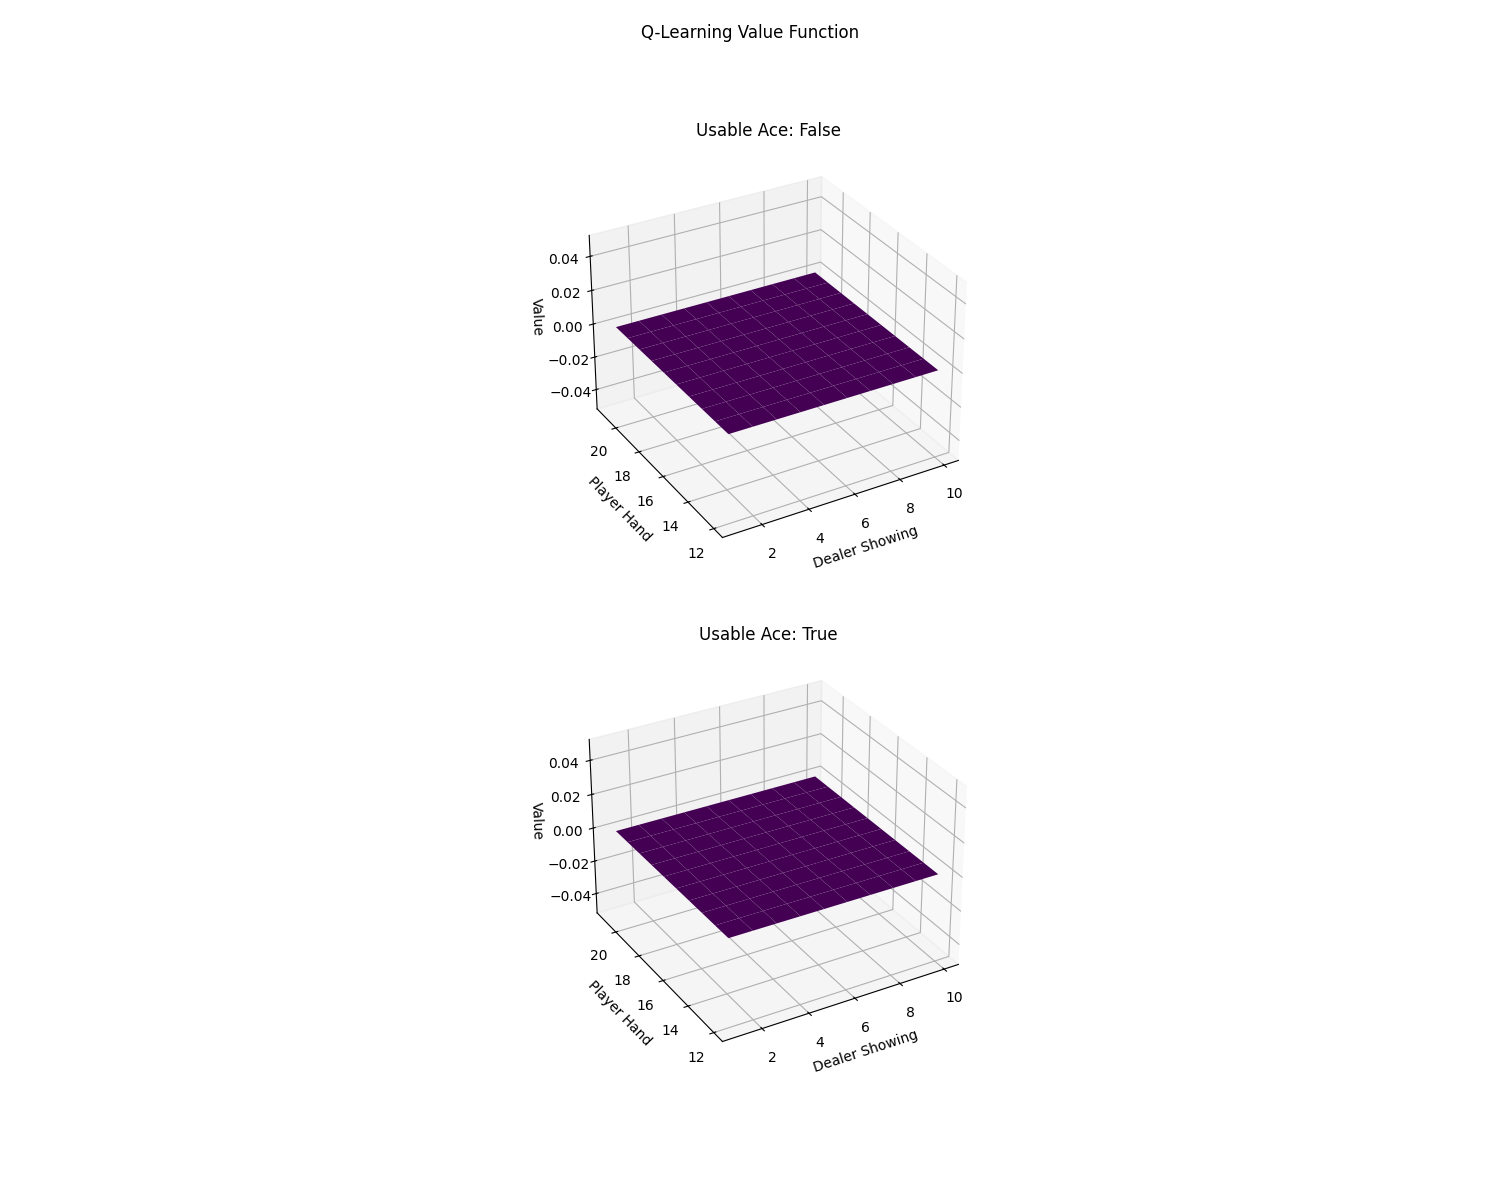
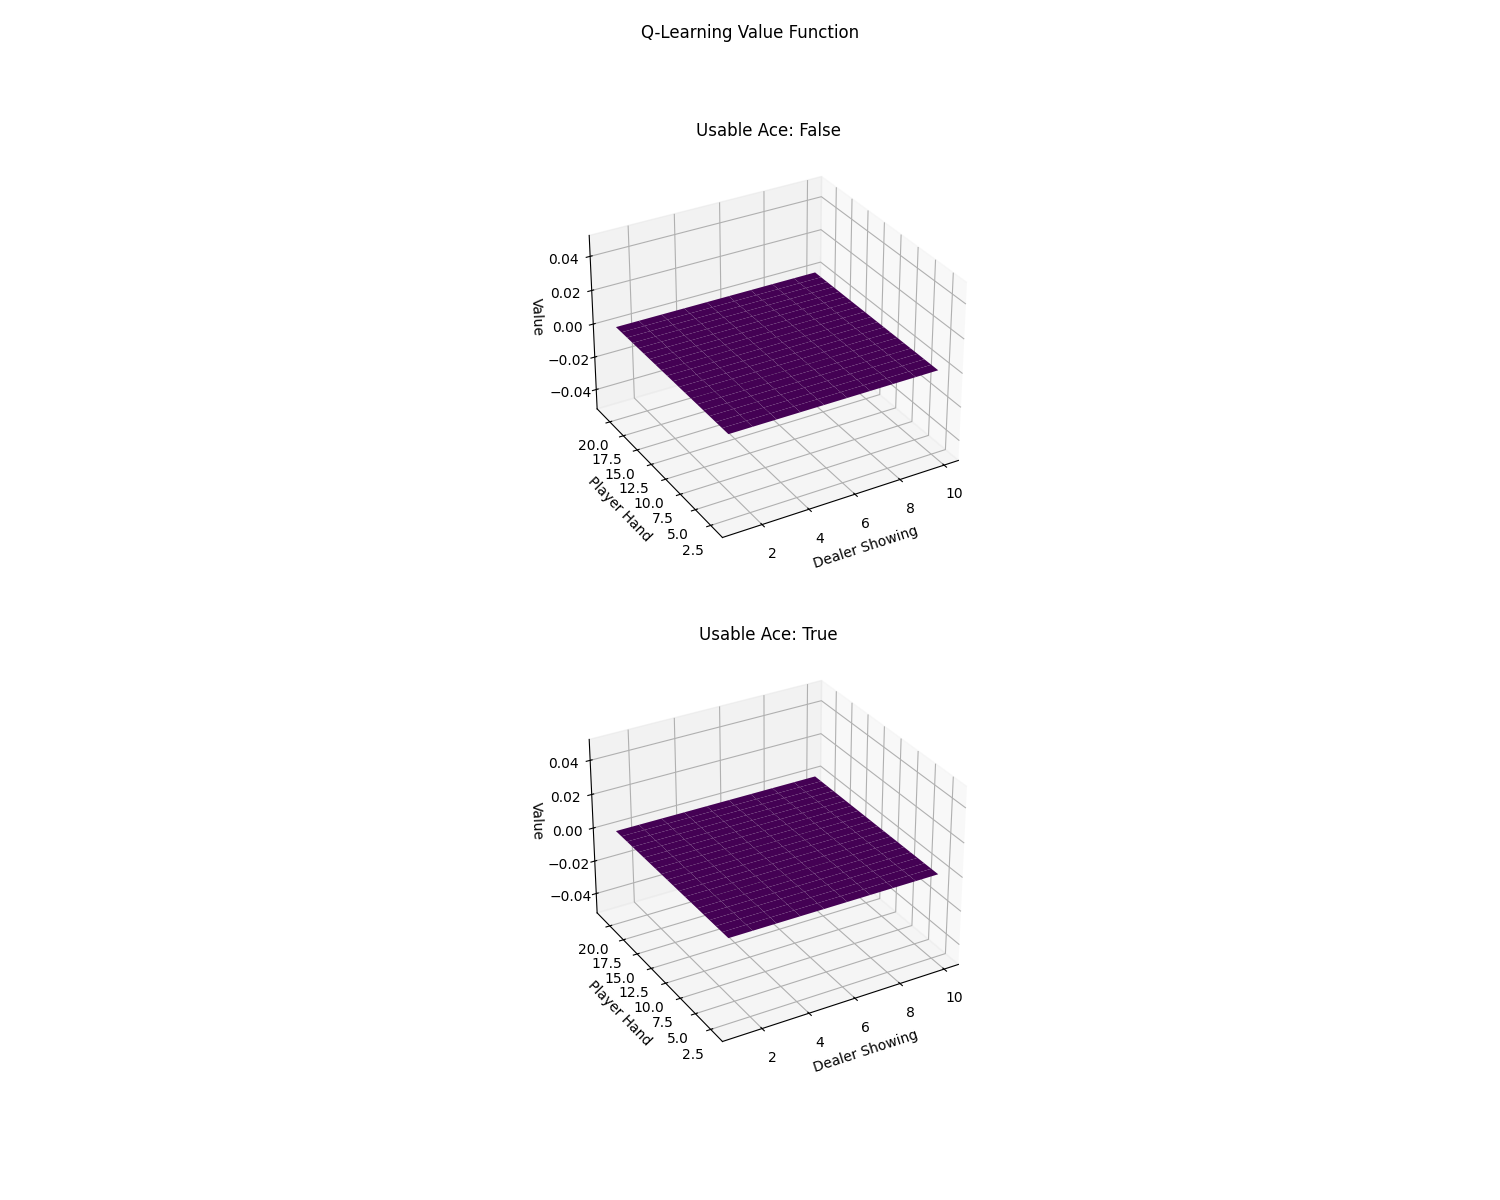
update

Changed region(s): [[0.3987, 0.5858, 0.644, 0.8633], [0.3987, 0.1542, 0.644, 0.4625]]

diff --git a/draw.py b/draw.py
@@ -1,16 +1,14 @@
 import matplotlib.pyplot as plt
 import numpy as np
 import torch
-from mpl_toolkits.mplot3d import Axes3D
-
 import matplotlib.pyplot as plt
 import numpy as np
-
+from Methods.utils import encode_state
 
 def plot_value_function_from_dict(value_dict, title="Value Function"):
     # 玩家可能的点数范围是12到21，庄家展示的牌可能是从1到10
-    player_range = np.arange(12, 22)
-    dealer_range = np.arange(1, 11)
+    player_range = np.arange(2, 22)
+    banker_range = np.arange(1, 11)
     usable_ace = [False, True]
 
     fig, axes = plt.subplots(nrows=2, figsize=(15, 12), subplot_kw={"projection": "3d"})
@@ -18,10 +16,18 @@ def plot_value_function_from_dict(value_dict, title="Value Function"):
 
     # 创建3D图的两个子图，对应有无可用Ace
     for idx, ace in enumerate(usable_ace):
-        x, y = np.meshgrid(dealer_range, player_range)
+        x, y = np.meshgrid(banker_range, player_range)
         z = np.array(
             [
-                [value_dict.get((player, dealer, ace), 0) for dealer in dealer_range]
+                [
+                    value_dict.get(
+                        frozenset(
+                            {"player": player, "banker": banker, "ace": ace}.items()
+                        ),
+                        0,
+                    )
+                    for banker in banker_range
+                ]
                 for player in player_range
             ]
         )
@@ -42,7 +48,7 @@ def plot_value_function_from_dict(value_dict, title="Value Function"):
 
 def plot_value_function_from_dqn(model, env, title="DQN Value Function"):
     player_range = np.arange(2, 22)  # 玩家点数从2到21
-    dealer_range = np.arange(1, 11)  # 庄家展示的牌从1到10
+    banker_range = np.arange(1, 11)  # 庄家展示的牌从1到10
     usable_ace = [False, True]  # 是否有可用的Ace
 
     # 创建3D图的两个子图，对应有无可用Ace
@@ -52,21 +58,21 @@ def plot_value_function_from_dqn(model, env, title="DQN Value Function"):
     for idx, ace in enumerate(usable_ace):  # 使用enumerate获取索引和是否有可用Ace
         state_values = {}
         for player in player_range:
-            for dealer in dealer_range:
-                state = (player, dealer, ace)
+            for banker in banker_range:
+                state = {"player": player, "banker": banker, "ace": ace}
                 state_tensor = torch.tensor(
-                    [env.encode_state(state)], dtype=torch.float32
+                    [encode_state(state)], dtype=torch.float32
                 )
                 with torch.no_grad():
                     value = (
                         model(state_tensor).max(1)[0].item()
                     )  # 获取给定状态的最大Q值
-                state_values[(player, dealer)] = value
+                state_values[(player, banker)] = value
 
-        x, y = np.meshgrid(dealer_range, player_range)  # 创建网格
+        x, y = np.meshgrid(banker_range, player_range)  # 创建网格
         z = np.array(
             [
-                [state_values.get((player, dealer), 0) for dealer in dealer_range]
+                [state_values.get((player, dealer), 0) for dealer in banker_range]
                 for player in player_range
             ]
         )
@@ -104,4 +110,3 @@ def plot_training_info(rewards, epsilons, title="Training Performance"):
     plt.title(title)
     plt.savefig("pics/{}.png".format(title))
     # plt.show()
-

diff --git a/main.py b/main.py
@@ -13,16 +13,16 @@ env = gym.make("Blackjack/Blackjack-v0")
 
 # 依次运行四个方法
 def main():
-    num_episodes = 100000
+    num_episodes = 10000
     gamma = 0.99
-    Q1 = monte_carlo_prediction(env, num_episodes=100000, gamma=gamma, seed=0)
+    Q1 = monte_carlo_prediction(env, num_episodes=num_episodes, gamma=gamma, seed=0)
     plot_value_function_from_dict(Q1, title="MC Prediction Value Function")
-    Q2 = sarsa(env, num_episodes=100000, gamma=gamma, alpha=0.1, epsilon=0.1)
+    Q2 = sarsa(env, num_episodes=num_episodes, gamma=gamma, alpha=0.1, epsilon=0.1)
     plot_value_function_from_dict(Q2, title="Sarsa Prediction Value Function")
-    Q3 = q_learning(env, num_episodes=100000, gamma=gamma, alpha=0.1, epsilon=0.1)
+    Q3 = q_learning(env, num_episodes=num_episodes, gamma=gamma, alpha=0.1, epsilon=0.1)
     plot_value_function_from_dict(Q3, title="Q-Learning Value Function")
     policy_net, rewards, epsilons = train_dqn_blackjack(
-        env, num_episodes=100000, gamma=gamma
+        env, num_episodes=num_episodes, gamma=gamma
     )
     plot_value_function_from_dqn(policy_net, env, title="DQN Value Function")
     plot_training_info(rewards, epsilons)

diff --git a/Methods/DeepQlearning.py b/Methods/DeepQlearning.py
@@ -3,7 +3,7 @@ import random
 import torch
 import torch.nn as nn
 import torch.optim as optim
-
+from Methods.utils import encode_state
 
 class DQN(nn.Module):
     def __init__(self, input_size, output_size):
@@ -27,11 +27,6 @@ def epsilon_greedy_policy(state, epsilon, policy_net, env):
             return policy_net(state).max(0)[-1].item()
     else:
         return env.action_space.sample()
-
-
-def encode_state(state):
-    # Example state: {'player': 1, 'banker': 1, 'usable_ace': True}
-    return [state["player"], state["banker"], 1 if state["ace"] else 0]
 
 
 def optimize_model(memory, batch_size, policy_net, target_net, optimizer, gamma):
@@ -110,7 +105,7 @@ def train_dqn_blackjack(
 
         if episode % 50 == 0:
             target_net.load_state_dict(policy_net.state_dict())
-            print(f"Episode {episode}: Reward {total_reward}, Epsilon {epsilon}")
+            # print(f"Episode {episode}: Reward {total_reward}, Epsilon {epsilon}")
 
     return policy_net, rewards, epsilons
 

diff --git a/Blackjack/envs/Blackjack_Game.py b/Blackjack/envs/Blackjack_Game.py
@@ -40,6 +40,12 @@ class BlackjackEnv(gym.Env):
         self.render_mode = render_mode
 
     def _get_obs(self):
+        if isinstance(self._ace, np.ndarray):
+            self._ace = self._ace.item()
+        if isinstance(self._banker_show, np.ndarray):
+            self._banker_show = self._banker_show.item()
+        if isinstance(self._player_state, np.ndarray):
+            self._player_state = self._player_state.item()
         return {"player": self._player_state, "banker": self._banker_show, "ace": self._ace}
 
     def _update_banker_state(self):
@@ -107,6 +113,7 @@ class BlackjackEnv(gym.Env):
             self._player_state += new_card.clip(
                 min=BlackjackEnv.metadata["min_point"], max=BlackjackEnv.metadata["max_point"]
             )
+            
             self._ace = self._ace or new_card == 1 
         else:
             self._update_banker_state()

diff --git a/Methods/utils.py b/Methods/utils.py
@@ -12,3 +12,8 @@ def epsilon_greedy_policy(Q, state, epsilon):
             return np.random.choice([0, 1])
         # 利用: 选择具有最大Q值的动作
         return np.argmax(action_values)
+
+
+def encode_state(state):
+    # Example state: {'player': 1, 'banker': 1, 'usable_ace': True}
+    return [state["player"], state["banker"], 1 if state["ace"] else 0]
